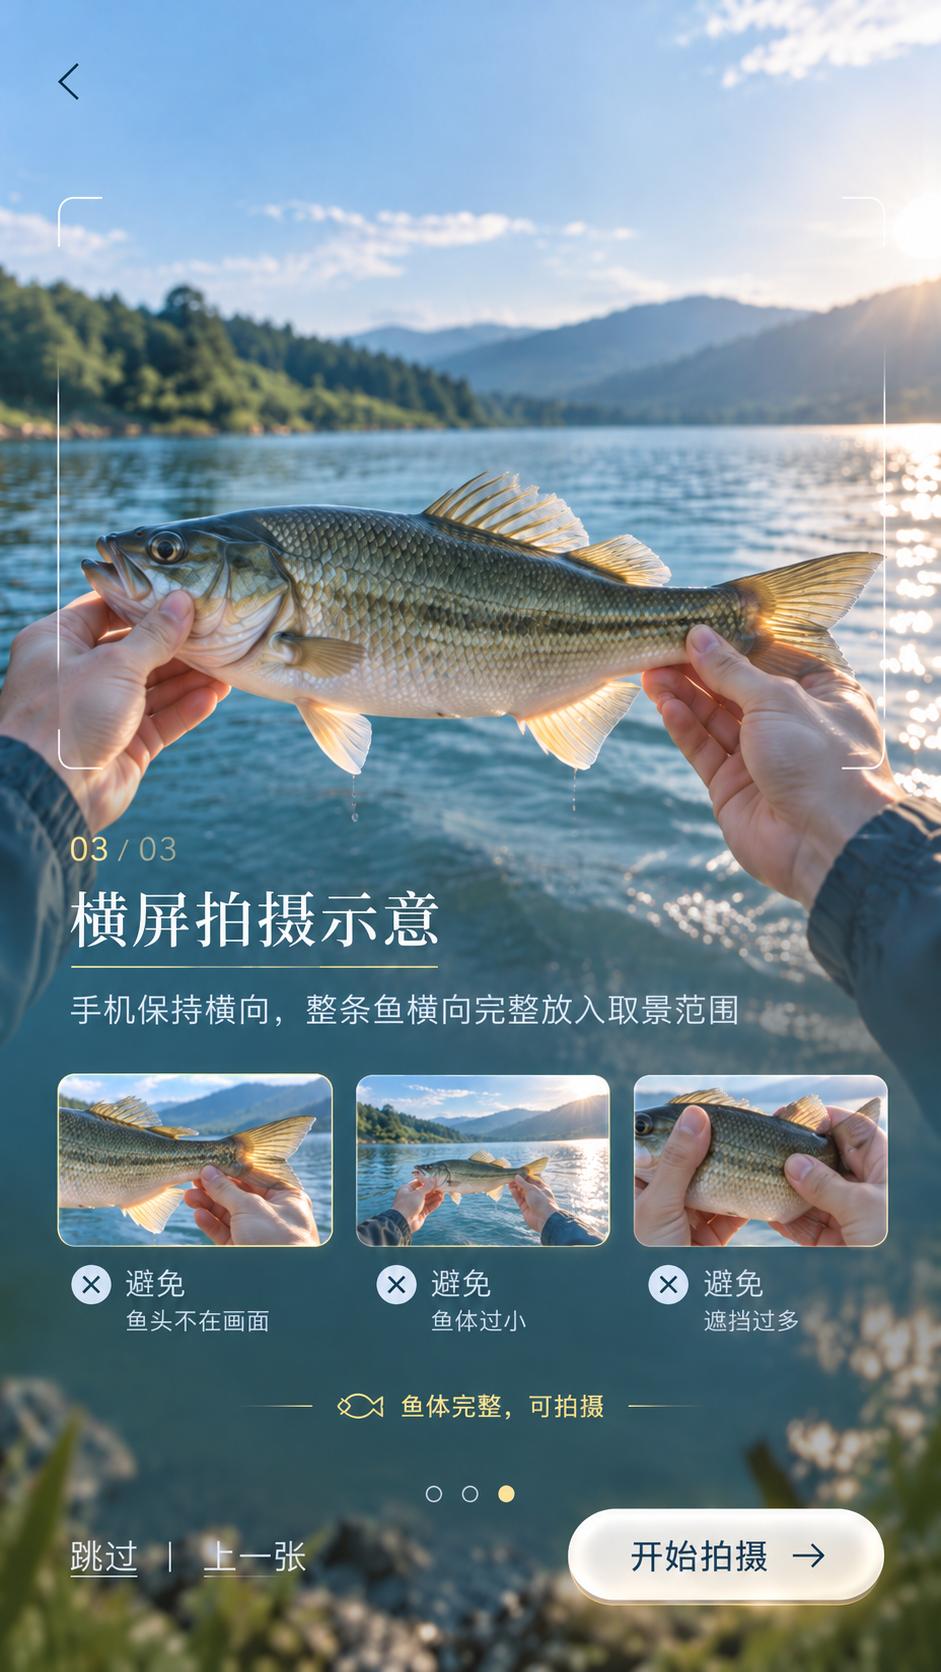
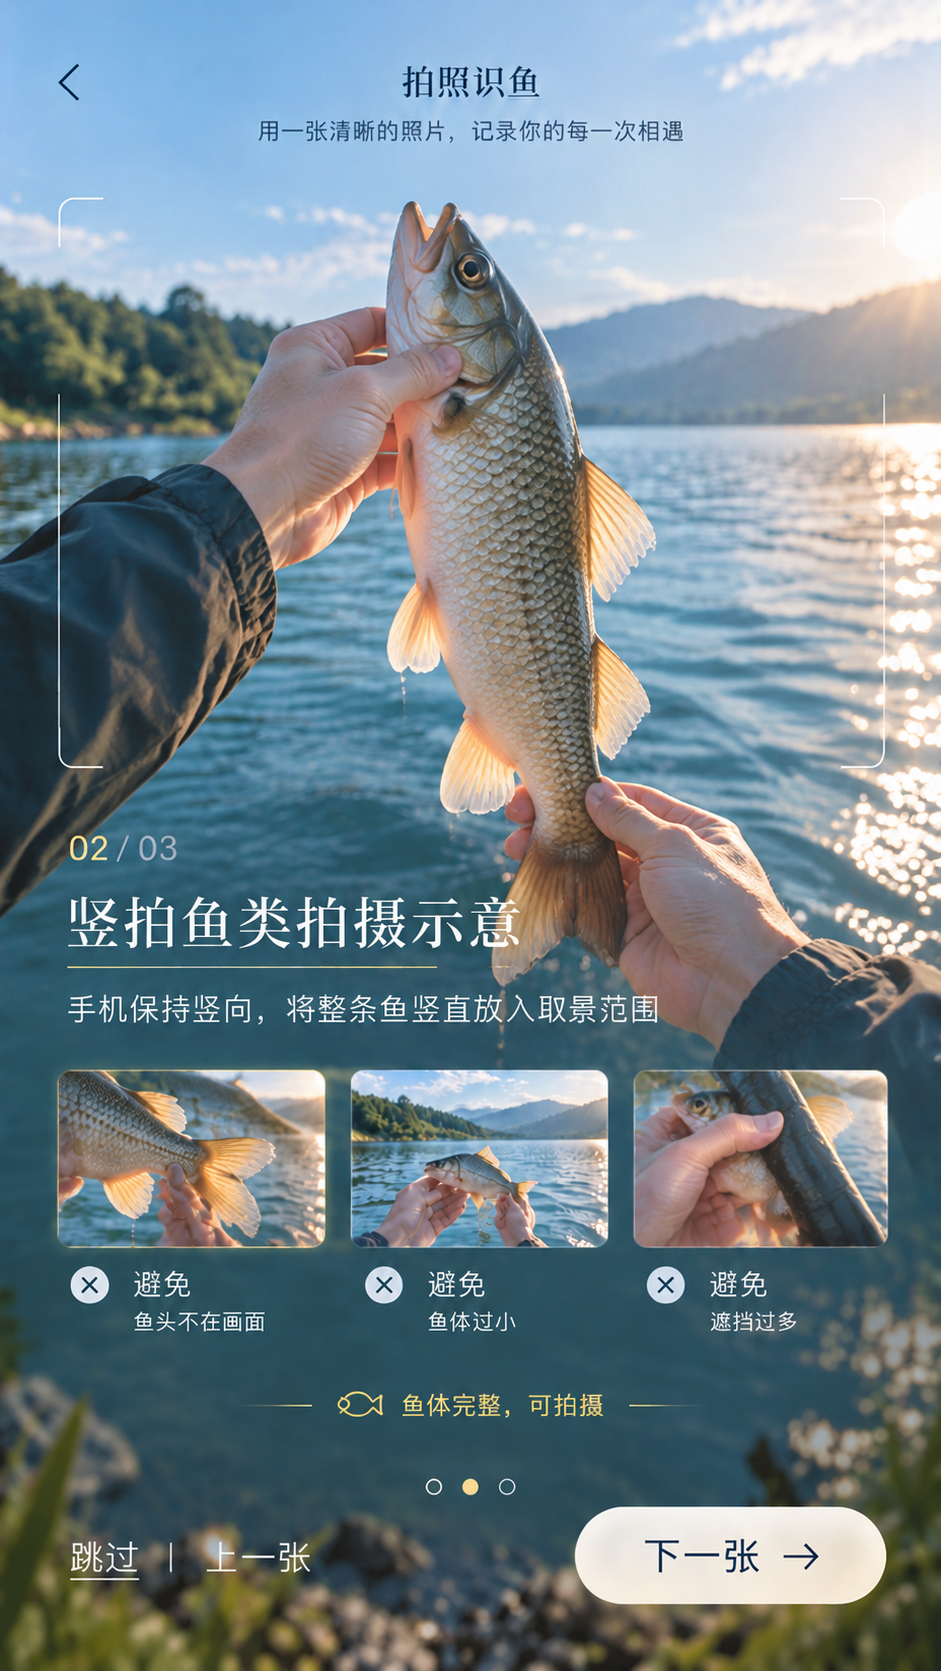
fix(design): restore three-page V1 guide authority

diff --git a/design/manager/README.md b/design/manager/README.md
@@ -169,24 +169,24 @@ Runtime、Evidence 和 Work 交接暂不进入当前 Design Manager。
 
 ## Recognition Capture · 首次拍照教学
 
-新增 Recognition Capture 的两页首次进入教学子菜单：
+新增 Recognition Capture 的三页首次进入教学子菜单：
 
 ```text
 识别过程
 └── 07 · 首次拍照教学
     ├── P01 · 竖屏拍摄示意
-    └── P02 · 横屏拍摄示意
+    ├── P02 · 竖拍鱼类拍摄示意
+    └── P03 · 横屏拍摄示意
 ```
 
 注册源：`design/registry/experience_registry_v1.json` → `recognition_flow_v1_2.hifi_views.capture_first_use_guide`。
 
-- Parent：`FROZEN` + `authority_gallery`，用于两张 Frozen Visual Authority 的总览。
+- Parent：`FROZEN` + `authority_gallery`，用于三张 Frozen Visual Authority 的总览。
 - Children：`FROZEN` + `repo_image`，点击后直接预览对应 PNG，不生成模拟 UI。
-- P01 →「下一张」；P02 →「开始拍摄」。
+- P01/P02 →「下一张」；P03 →「开始拍摄」。
 - Hero 为唯一正确示范；下方三个均为错误示范。
-- P01/P02 的三个错误示例全部保持横向鱼体。
-- `跳过/开始拍摄` 均不自动触发快门。
-- P02 是原 P03 横屏教学 PNG 的新编号，字节保持不变；原竖直鱼体教学页已退出 active sequence。
+- P02 三个错误示例全部保持竖直鱼体；P03 三个错误示例全部保持横向鱼体。
+- PNG 原始字节导入属于独立 Asset Import Gate，未导入前不得将预览路径标记为实际存在。
 
 ## Normal Home · NH07 头像状态
 

diff --git a/design/pages/recognition/first_use_camera_guide/First_Use_Camera_Guide_Spec_V1_1.md b/design/pages/recognition/first_use_camera_guide/First_Use_Camera_Guide_Spec_V1_1.md
@@ -1,6 +1,8 @@
-# 渔见 · First-use Camera Guide V1.1
+# Historical proposal · First-use Camera Guide V1.1 (SUPERSEDED)
 
-**Status:** FROZEN  
+> Historical two-page proposal only. The active authority for PR #145 is the three-page Work Task V1 and its P01/P02/P03 Frozen contract.
+
+**Status:** SUPERSEDED for PR #145 Work Task V1  
 **Freeze date:** 2026-10-16  
 **Owner:** Recognition Capture / 首次拍照教学  
 **Scope:** Capture 页面首次相机进入时的两页教学 Overlay；不替代 Recognition Capture V3.1 页面合同。

diff --git a/design/pages/recognition/first_use_camera_guide/Freeze_Decision_20261016_V2.md b/design/pages/recognition/first_use_camera_guide/Freeze_Decision_20261016_V2.md
@@ -27,4 +27,4 @@ P01 remains byte-identical. P02 reuses the former P03 Git blob without changing 
 
 ## Superseded
 
-This V2 decision supersedes the three-page teaching definition in `Freeze_Decision_20261016.md`. Historical files remain only for provenance.
+This two-page V2 decision is retained as historical provenance only. It does not supersede PR #145 Work Task V1; the active page contract is the three-page P01/P02/P03 definition in `Freeze_Decision_20261016.md`.
